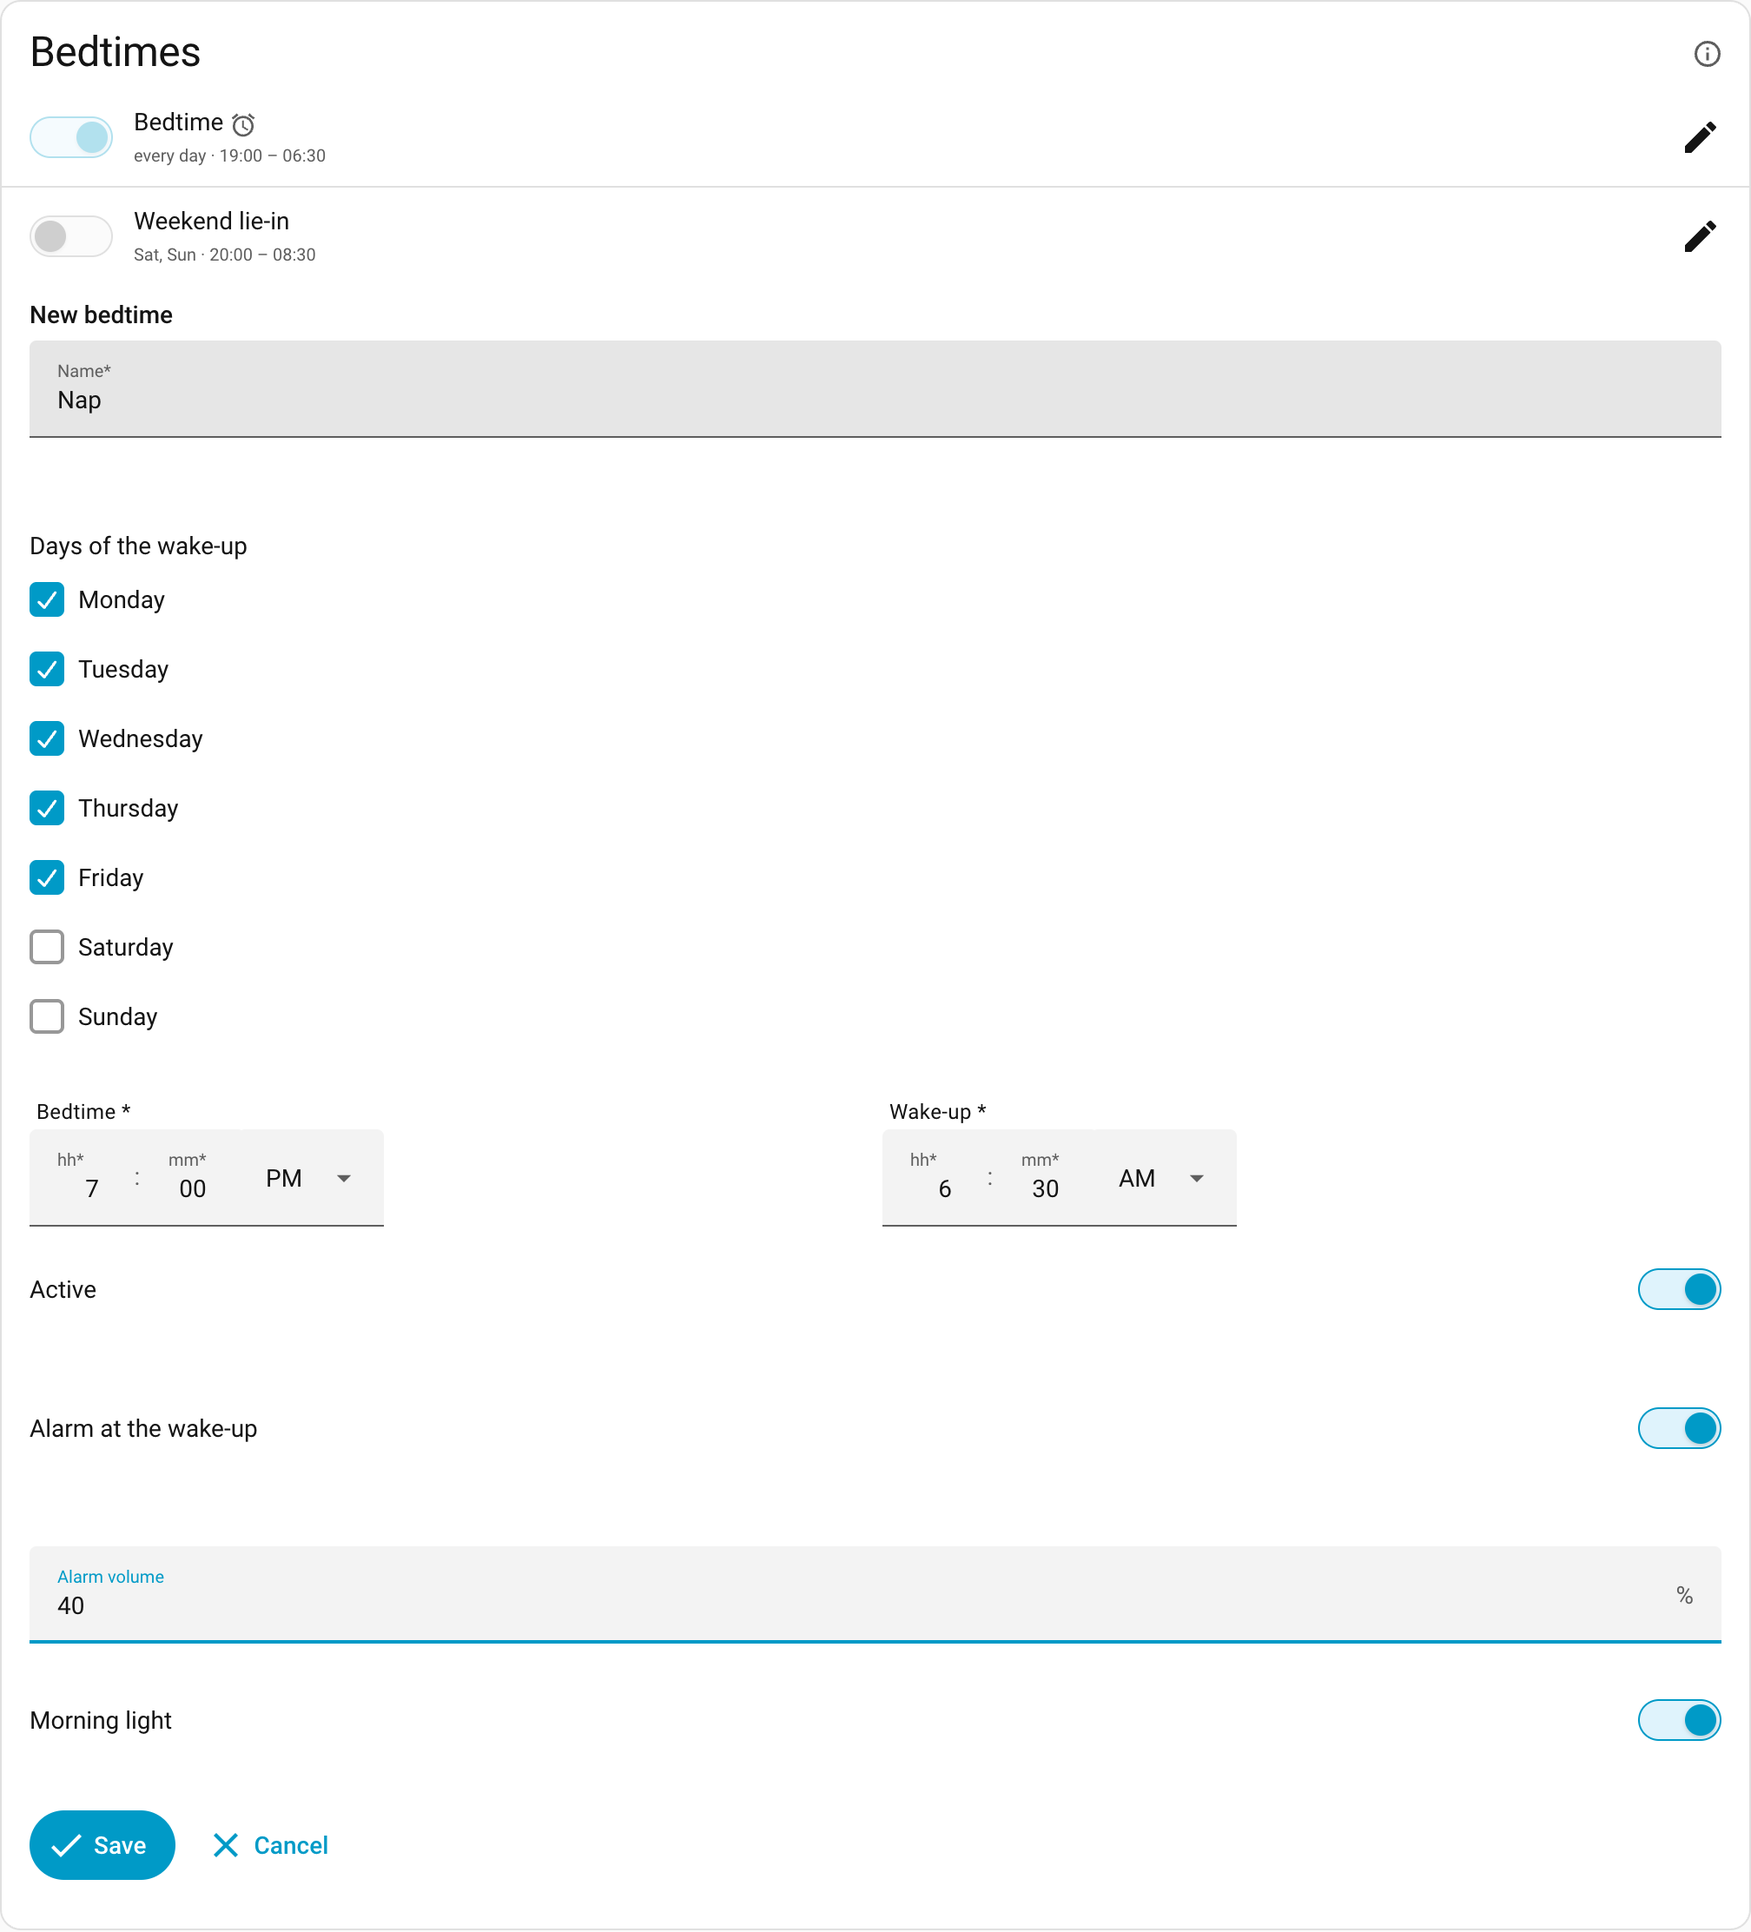
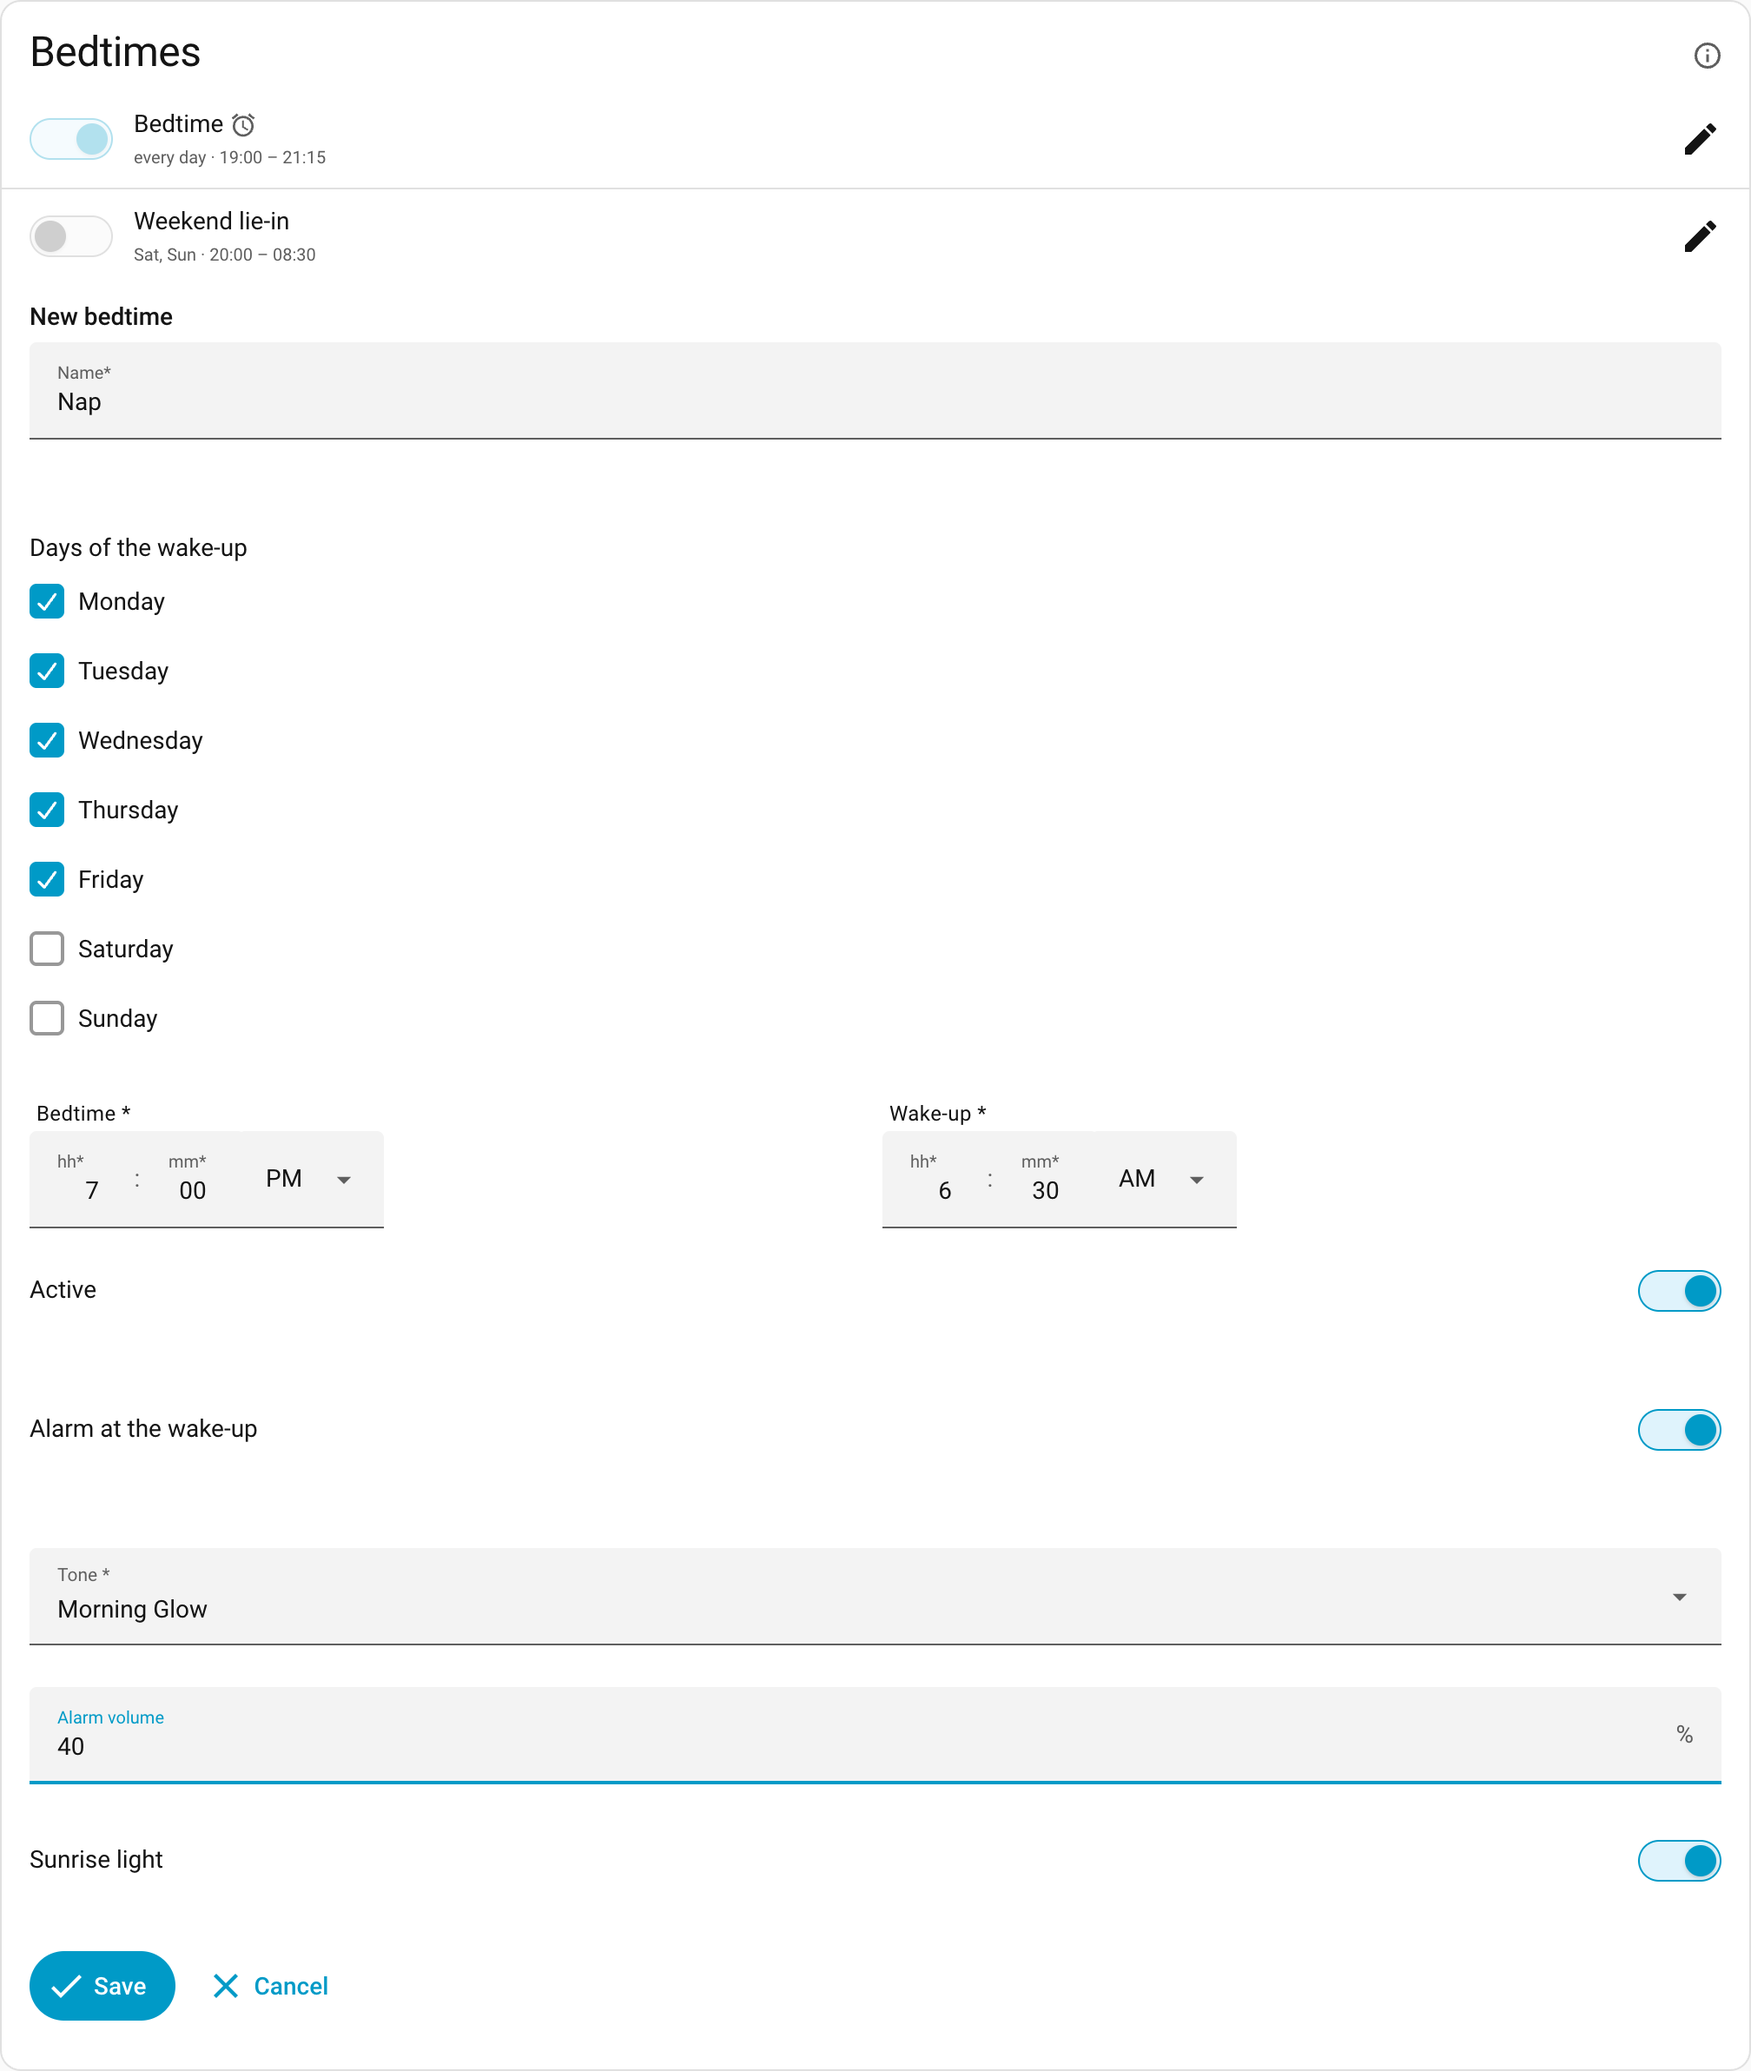
Version 1.5.0: the wake-up light with the app's tones
- The wake-up light of a Toniebox 2 on the page and as actions
- Bedtimes take one of the app's five alarm tones
- The picture of the bedtimes shows the tone and the sunrise light

diff --git a/CHANGELOG.md b/CHANGELOG.md
@@ -6,6 +6,8 @@ All notable changes to this project are documented here. The format follows
 
 ## [Unreleased]
 
+## [1.5.0] - 2026-11-28
+
 ### Added
 
 - The wake-up light of a Toniebox 2, as the app's "Lichtwecker": one alarm at a time of its own, with one of the app's five tones, a volume and the sunrise light. It is set and cleared on the page, under a box's bedtimes, or by the actions `storybox_plus.set_wake_up_light` (a time of day or a date with a time) and `storybox_plus.clear_wake_up_light`. It is kept across restarts and armed like the alarm of a bedtime: as soon as it is within the box's timer (about 18 hours) and the box is online, the earlier of the two alarms first. Once it has rung, it is gone. The sensor of the next alarm counts it and says so in the attribute `wake_up_light`.

diff --git a/docs/page-and-card.md b/docs/page-and-card.md
@@ -33,7 +33,7 @@ The preferences of an account in the area Setup:
 
 A new bedtime with its days, times and alarm:
 
-<img src="screenshots/bedtime.png" alt="The bedtimes of a Toniebox 2 with the form for a new one: name, days of the wake-up, bedtime and wake-up time, switches for active, alarm and morning light, and the alarm volume" width="400">
+<img src="screenshots/bedtime.png" alt="The bedtimes of a Toniebox 2 with the form for a new one: name, days of the wake-up, bedtime and wake-up time, switches for active and alarm, the alarm tone, the alarm volume and the sunrise light" width="400">
 
 The chapters of a creative figure being rearranged, sorted by title or shuffled; the changes go to the cloud together when saved:
 
